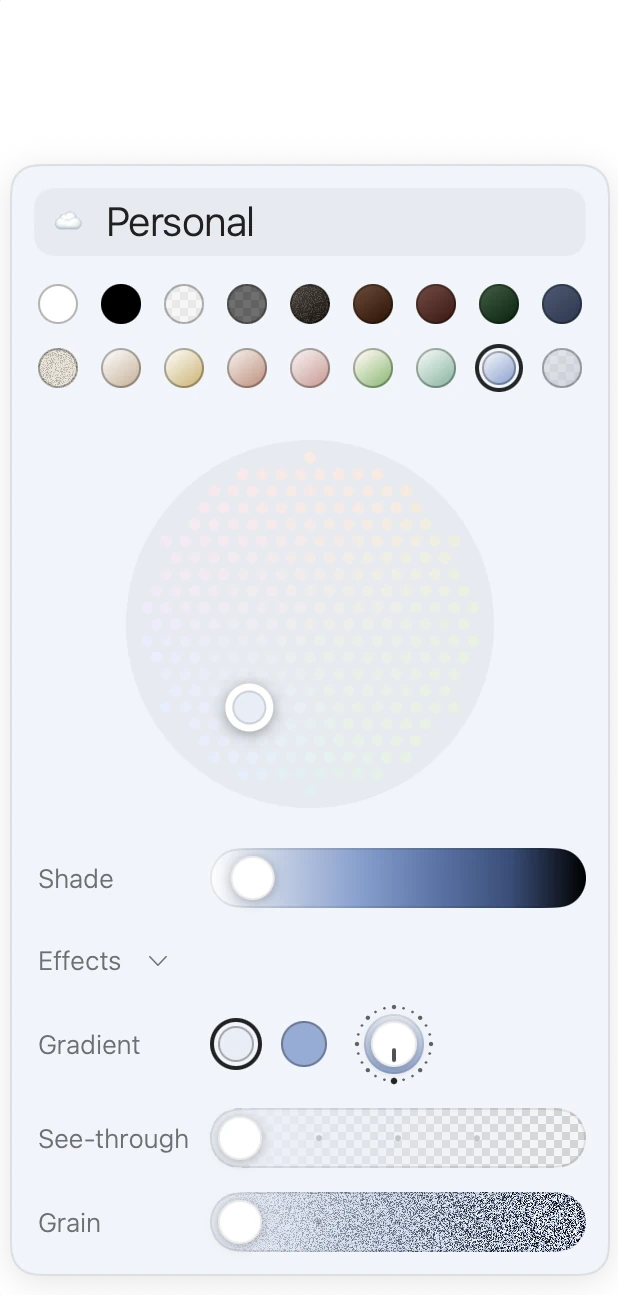
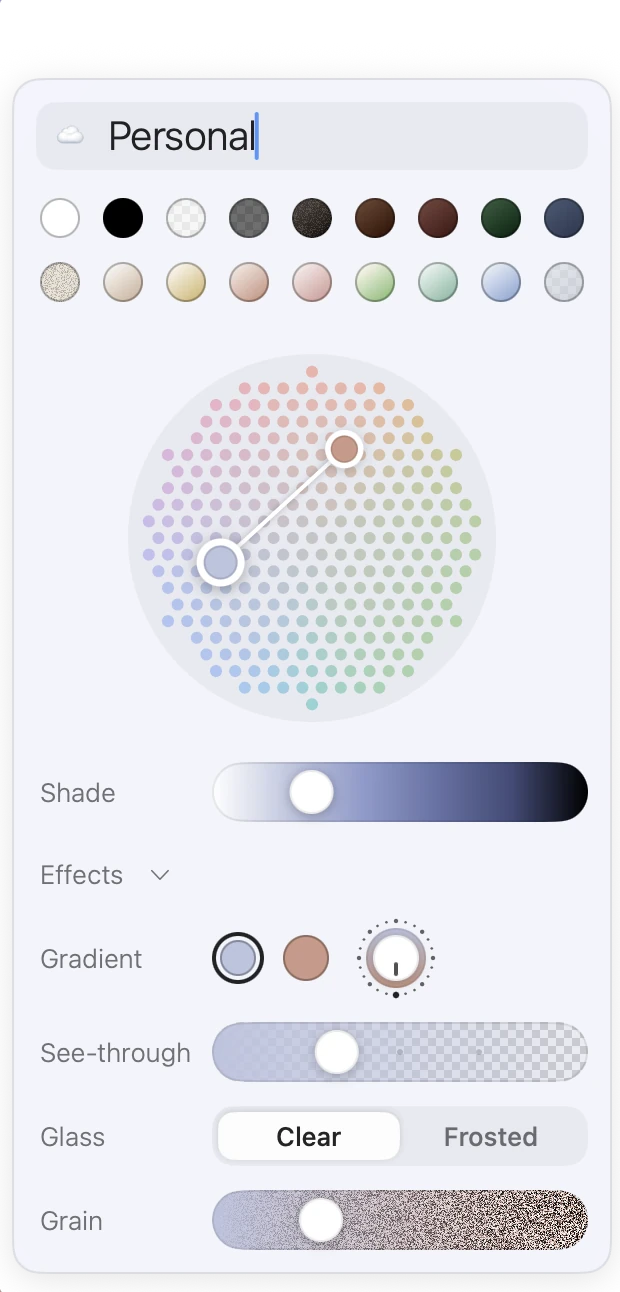
feat: the home page alternates sky, blue, white and navy bands, with a colored space editor and a cleaner peek

diff --git a/site/index.html b/site/index.html
@@ -22,7 +22,7 @@
 <meta name="twitter:image" content="https://zigzagbrowser.com/assets/og.png">
 <script type="application/ld+json">{"@context": "https://schema.org", "@type": "SoftwareApplication", "name": "Zigzag", "applicationCategory": "BrowserApplication", "operatingSystem": "macOS 15.4 or later", "description": "Zigzag is a fast, free web browser for Mac with spaces, a sidebar, split view and peek. Coming from Arc? Bring your spaces and pinned tabs over in one click.", "url": "https://zigzagbrowser.com/", "downloadUrl": "https://zigzagbrowser.com/download/", "image": "https://zigzagbrowser.com/assets/icon-512.png", "offers": {"@type": "Offer", "price": "0", "priceCurrency": "USD"}, "author": {"@type": "Person", "name": "Zigao Wang", "url": "https://zigao.wang"}, "license": "https://www.apache.org/licenses/LICENSE-2.0", "sameAs": ["https://github.com/ZigaoWang/zigzag"]}</script>
 <script type="application/ld+json">{"@context": "https://schema.org", "@type": "FAQPage", "mainEntity": [{"@type": "Question", "name": "Is Zigzag just an Arc copy?", "acceptedAnswer": {"@type": "Answer", "text": "Arc showed a lot of people that a browser could feel good, and Zigzag is openly inspired by that. But it’s built from scratch, on Safari’s engine instead of Chrome’s, with its own design, and things Arc never had: tabs that tidy themselves, built in ad blocking, and a password manager that imports from any browser. Zigzag isn’t affiliated with The Browser Company."}}, {"@type": "Question", "name": "Will Zigzag shut down like Arc?", "acceptedAnswer": {"@type": "Answer", "text": "It can’t be switched off. There’s no account, and the only server is the update feed. If it went away, Zigzag would keep working on your Mac. Security updates for the engine come straight from Apple with macOS."}}, {"@type": "Question", "name": "Do I need an account?", "acceptedAnswer": {"@type": "Answer", "text": "No. Download it and go."}}, {"@type": "Question", "name": "Is Zigzag finished?", "acceptedAnswer": {"@type": "Answer", "text": "Not yet. It’s in beta, which means it works well for everyday browsing, but some things are still being polished. Updates install automatically, so it keeps getting better on its own."}}, {"@type": "Question", "name": "Is it free?", "acceptedAnswer": {"@type": "Answer", "text": "Yes."}}, {"@type": "Question", "name": "Can I bring my stuff from Arc?", "acceptedAnswer": {"@type": "Answer", "text": "Yes, in one click: spaces, pinned tabs, Favorites, history, and passwords. Chrome, Safari, Dia, Edge, Brave, Vivaldi, Opera, Firefox, and Zen work too."}}, {"@type": "Question", "name": "Does it work with Chrome extensions?", "acceptedAnswer": {"@type": "Answer", "text": "Most popular ones, installed straight from the Chrome Web Store. Some can’t work outside Chrome, and Zigzag tells you upfront instead of breaking silently."}}, {"@type": "Question", "name": "Why Safari’s engine?", "acceptedAnswer": {"@type": "Answer", "text": "It’s fast, light on memory and battery, and Apple keeps it secure."}}, {"@type": "Question", "name": "Is my data private?", "acceptedAnswer": {"@type": "Answer", "text": "Yes. There’s no account, no analytics and no telemetry, and nothing about how you browse is sent to me. Zigzag checks zigzagbrowser.com once a day for updates, sending only its version. Passwords live in your Mac’s Keychain and sync only through your own iCloud. Everything Zigzag connects to on its own is listed in the README on GitHub."}}, {"@type": "Question", "name": "Is Zigzag open source?", "acceptedAnswer": {"@type": "Answer", "text": "Yes. The code is under the Apache License 2.0, on GitHub. Read it, build it, fork it. The Zigzag name and icon aren’t part of the license, so a fork needs its own."}}, {"@type": "Question", "name": "Which Macs does it run on?", "acceptedAnswer": {"@type": "Answer", "text": "macOS 15.4 or later."}}]}</script>
-<link rel="stylesheet" href="/assets/site.css?v=1795700000">
+<link rel="stylesheet" href="/assets/site.css?v=1795800000">
 </head>
 <body>
 <header class="hero">
@@ -40,12 +40,13 @@
       <p>There’s no account and nothing to sign up for. Download it and go.</p>
     </section>
 
-  <section class="feature">
+  <section class="feature band blue">
     <h2>Spaces, each in its own color.</h2>
     <p class="lede">One for the city, one for film, one for the studio. Swipe on the sidebar, or click a dot, to switch.</p>
     <div class="stage dusk"><video src="/assets/clips/spaces.mp4?v=1794100000" poster="/assets/clips/spaces.jpg?v=1794100000" muted loop playsinline preload="auto" aria-label="A creative in Shanghai moving between three spaces, each with its own pinned pages: Shanghai in deep blue with a night photo of the Lujiazui skyline, Film in near-black charcoal with an AvoidXray album from England and a pinned page of film photos, and Studio in deep forest green with Fonts In Use. A two-finger swipe on the sidebar and a click on the space dots switch between them."></video></div>
   </section>
 
+  <div class="band white">
   <section class="row">
     <div class="row-text"><h2>⌘T finds anything.</h2><p>Open tabs, history and sites, in one list as you type. Type a site’s name, press Tab, and you’re searching it.</p></div>
     <div class="stage comp"><img class="reveal" src="/assets/comp-command-bar.webp?v=1" srcset="/assets/comp-command-bar-1x.webp?v=1 1x, /assets/comp-command-bar.webp?v=1 2x" width="648" height="392" loading="lazy" alt="Zigzag’s command bar, searching git: the Zigzag repository, GitHub Docs and GitHub, with Search GitHub on Tab."></div>
@@ -53,13 +54,14 @@
 
   <section class="row flip">
     <div class="row-text"><h2>Make each space yours.</h2><p>A color or a gradient, a shade, how much of your desktop shows through, and a little grain. Every space can feel like its own room.</p></div>
-    <div class="stage comp dusk tall"><img class="reveal" src="/assets/comp-space-editor.webp?v=1" srcset="/assets/comp-space-editor-1x.webp?v=1 1x, /assets/comp-space-editor.webp?v=1 2x" width="309" height="648" loading="lazy" alt="Zigzag’s space editor: color swatches, a color wheel, shade, gradient, see-through and grain."></div>
+    <div class="stage comp dusk tall"><img class="reveal" src="/assets/comp-space-editor.webp?v=2" srcset="/assets/comp-space-editor-1x.webp?v=2 1x, /assets/comp-space-editor.webp?v=2 2x" width="310" height="646" loading="lazy" alt="Zigzag’s space editor: color swatches, a color wheel, shade, gradient, see-through and grain."></div>
   </section>
 
   <section class="row">
     <div class="row-text"><h2>Peek, then carry on.</h2><p>Shift-click a link to read it over the page you’re on. Close it, and you’re right where you were.</p></div>
-    <div class="stage"><img class="reveal" src="/assets/win-peek.webp?v=2" srcset="/assets/win-peek-1x.webp?v=2 1x, /assets/win-peek.webp?v=2 2x" width="1152" height="772" loading="lazy" alt="Zigzag with a Wikipedia article on typography peeked over Grilli Type’s site."></div>
+    <div class="stage"><img class="reveal" src="/assets/win-peek.webp?v=3" srcset="/assets/win-peek-1x.webp?v=3 1x, /assets/win-peek.webp?v=3 2x" width="1152" height="772" loading="lazy" alt="Zigzag with a Wikipedia article on typography peeked over Grilli Type’s site."></div>
   </section>
+  </div>
 
   <section class="feature">
     <h2>Everything else, built in.</h2>
@@ -77,7 +79,7 @@
     </div>
   </section>
 
-  <section class="feature weight">
+  <section class="feature weight band navy">
     <h2>The lightweight browser.</h2>
     <p class="lede">Zigzag uses the WebKit already in your Mac, so there’s no engine to ship with it.</p>
     <ul class="bars">

diff --git a/site/assets/site.css b/site/assets/site.css
@@ -263,3 +263,24 @@ main { max-width: 1160px; margin: 0 auto; padding: 0 24px; }
   .duo, .story { margin-bottom: 96px; gap: 40px; } 
   .stage.comp { height: 360px; padding: 32px 20px 0; }
 }
+
+/* Bands: the page alternates calm fields of color, edge to edge, so it never reads as one long white column. */
+.band { position: relative; padding: 120px 0; margin-bottom: 0; }
+.band::before { content: ""; position: absolute; inset: 0 calc(50% - 50vw); z-index: -1; }
+.band.blue::before { background: linear-gradient(#EAF2FC, #DCEAFA); }
+.band.white::before { background: #fff; }
+.band.white { padding: 140px 0 10px; }
+.band.navy::before { background: #1F2D40; }
+.band.navy { color: #F1F4F9; }
+.band.navy .lede, .band.navy .note { color: rgba(241, 244, 249, .66); }
+.band.navy .bars li { color: rgba(241, 244, 249, .7); }
+.band.navy .bars .track { background: rgba(241, 244, 249, .12); }
+.band.navy .bars .fill { background: rgba(241, 244, 249, .35); }
+.band.navy .bars .us { color: #fff; } .band.navy .bars .us .fill { background: #8EC0F5; }
+.band + section, .band + .band { margin-top: 0; }
+.band.blue + .band, .band.white + .feature { padding-top: 0; }
+.feature.band, .band .row:last-child { margin-bottom: 0; }
+.band.white + .feature { margin-top: 140px; }
+.band.navy { margin: 150px 0; }
+main { overflow-x: clip; }
+@media (max-width: 760px) { .band { padding: 72px 0; } .band.white { padding: 80px 0 1px; } .band.navy { margin: 96px 0; } .band.white + .feature { margin-top: 96px; } }

diff --git a/site/release-notes/index.html b/site/release-notes/index.html
@@ -16,7 +16,7 @@
 <meta name="twitter:image" content="https://zigzagbrowser.com/assets/og.png">
 <link rel="icon" type="image/png" href="/assets/favicon-64.png">
 <link rel="apple-touch-icon" href="/assets/icon-256.png">
-<link rel="stylesheet" href="/assets/site.css?v=1795700000">
+<link rel="stylesheet" href="/assets/site.css?v=1795800000">
 </head>
 <body>
 <header class="bar"><a class="bar-home" href="/" aria-label="Zigzag home"><img src="/assets/icon-64.png" width="28" height="28" alt=""><span class="wm" role="img" aria-label="Zigzag"></span></a><span class="bar-end"><a class="gh" href="https://github.com/ZigaoWang/zigzag" aria-label="Zigzag on GitHub" title="Zigzag on GitHub"><svg viewBox="0 0 16 16" aria-hidden="true"><path fill="currentColor" d="M8 0C3.58 0 0 3.58 0 8c0 3.54 2.29 6.53 5.47 7.59.4.07.55-.17.55-.38 0-.19-.01-.82-.01-1.49-2.01.37-2.53-.49-2.69-.94-.09-.23-.48-.94-.82-1.13-.28-.15-.68-.52-.01-.53.63-.01 1.08.58 1.23.82.72 1.21 1.87.87 2.33.66.07-.52.28-.87.51-1.07-1.78-.2-3.64-.89-3.64-3.95 0-.87.31-1.59.82-2.15-.08-.2-.36-1.02.08-2.12 0 0 .67-.21 2.2.82.64-.18 1.32-.27 2-.27.68 0 1.36.09 2 .27 1.53-1.04 2.2-.82 2.2-.82.44 1.1.16 1.92.08 2.12.51.56.82 1.27.82 2.15 0 3.07-1.87 3.75-3.65 3.95.29.25.54.73.54 1.48 0 1.07-.01 1.93-.01 2.2 0 .21.15.46.55.38A8.013 8.013 0 0016 8c0-4.42-3.58-8-8-8z"/></svg></a><a class="button small" href="/download">Download</a></span></header>

diff --git a/site/download/index.html b/site/download/index.html
@@ -16,7 +16,7 @@
 <meta name="twitter:image" content="https://zigzagbrowser.com/assets/og.png">
 <link rel="icon" type="image/png" href="/assets/favicon-64.png">
 <link rel="apple-touch-icon" href="/assets/icon-256.png">
-<link rel="stylesheet" href="/assets/site.css?v=1795700000">
+<link rel="stylesheet" href="/assets/site.css?v=1795800000">
 </head>
 <body>
 <header class="bar"><a class="bar-home" href="/" aria-label="Zigzag home"><img src="/assets/icon-64.png" width="28" height="28" alt=""><span class="wm" role="img" aria-label="Zigzag"></span></a><span class="bar-end"><a class="gh" href="https://github.com/ZigaoWang/zigzag" aria-label="Zigzag on GitHub" title="Zigzag on GitHub"><svg viewBox="0 0 16 16" aria-hidden="true"><path fill="currentColor" d="M8 0C3.58 0 0 3.58 0 8c0 3.54 2.29 6.53 5.47 7.59.4.07.55-.17.55-.38 0-.19-.01-.82-.01-1.49-2.01.37-2.53-.49-2.69-.94-.09-.23-.48-.94-.82-1.13-.28-.15-.68-.52-.01-.53.63-.01 1.08.58 1.23.82.72 1.21 1.87.87 2.33.66.07-.52.28-.87.51-1.07-1.78-.2-3.64-.89-3.64-3.95 0-.87.31-1.59.82-2.15-.08-.2-.36-1.02.08-2.12 0 0 .67-.21 2.2.82.64-.18 1.32-.27 2-.27.68 0 1.36.09 2 .27 1.53-1.04 2.2-.82 2.2-.82.44 1.1.16 1.92.08 2.12.51.56.82 1.27.82 2.15 0 3.07-1.87 3.75-3.65 3.95.29.25.54.73.54 1.48 0 1.07-.01 1.93-.01 2.2 0 .21.15.46.55.38A8.013 8.013 0 0016 8c0-4.42-3.58-8-8-8z"/></svg></a></span></header>

diff --git a/site/404.html b/site/404.html
@@ -6,7 +6,7 @@
 <title>Page not found</title>
 <meta name="robots" content="noindex">
 <link rel="icon" type="image/png" href="/assets/favicon-64.png">
-<link rel="stylesheet" href="/assets/site.css?v=1795700000">
+<link rel="stylesheet" href="/assets/site.css?v=1795800000">
 </head>
 <body>
 <header class="bar"><a class="bar-home" href="/" aria-label="Zigzag home"><img src="/assets/icon-64.png" width="28" height="28" alt=""><span class="wm" role="img" aria-label="Zigzag"></span></a><span class="bar-end"><a class="gh" href="https://github.com/ZigaoWang/zigzag" aria-label="Zigzag on GitHub" title="Zigzag on GitHub"><svg viewBox="0 0 16 16" aria-hidden="true"><path fill="currentColor" d="M8 0C3.58 0 0 3.58 0 8c0 3.54 2.29 6.53 5.47 7.59.4.07.55-.17.55-.38 0-.19-.01-.82-.01-1.49-2.01.37-2.53-.49-2.69-.94-.09-.23-.48-.94-.82-1.13-.28-.15-.68-.52-.01-.53.63-.01 1.08.58 1.23.82.72 1.21 1.87.87 2.33.66.07-.52.28-.87.51-1.07-1.78-.2-3.64-.89-3.64-3.95 0-.87.31-1.59.82-2.15-.08-.2-.36-1.02.08-2.12 0 0 .67-.21 2.2.82.64-.18 1.32-.27 2-.27.68 0 1.36.09 2 .27 1.53-1.04 2.2-.82 2.2-.82.44 1.1.16 1.92.08 2.12.51.56.82 1.27.82 2.15 0 3.07-1.87 3.75-3.65 3.95.29.25.54.73.54 1.48 0 1.07-.01 1.93-.01 2.2 0 .21.15.46.55.38A8.013 8.013 0 0016 8c0-4.42-3.58-8-8-8z"/></svg></a><a class="button small" href="/download">Download</a></span></header>

diff --git a/scripts/changelog-page.py b/scripts/changelog-page.py
@@ -64,7 +64,7 @@ page = f"""<!doctype html>
 <meta name="twitter:image" content="https://zigzagbrowser.com/assets/og.png">
 <link rel="icon" type="image/png" href="/assets/favicon-64.png">
 <link rel="apple-touch-icon" href="/assets/icon-256.png">
-<link rel="stylesheet" href="/assets/site.css?v=1795700000">
+<link rel="stylesheet" href="/assets/site.css?v=1795800000">
 </head>
 <body>
 <header class="bar"><a class="bar-home" href="/" aria-label="Zigzag home"><img src="/assets/icon-64.png" width="28" height="28" alt=""><span class="wm" role="img" aria-label="Zigzag"></span></a><span class="bar-end"><a class="gh" href="https://github.com/ZigaoWang/zigzag" aria-label="Zigzag on GitHub" title="Zigzag on GitHub"><svg viewBox="0 0 16 16" aria-hidden="true"><path fill="currentColor" d="M8 0C3.58 0 0 3.58 0 8c0 3.54 2.29 6.53 5.47 7.59.4.07.55-.17.55-.38 0-.19-.01-.82-.01-1.49-2.01.37-2.53-.49-2.69-.94-.09-.23-.48-.94-.82-1.13-.28-.15-.68-.52-.01-.53.63-.01 1.08.58 1.23.82.72 1.21 1.87.87 2.33.66.07-.52.28-.87.51-1.07-1.78-.2-3.64-.89-3.64-3.95 0-.87.31-1.59.82-2.15-.08-.2-.36-1.02.08-2.12 0 0 .67-.21 2.2.82.64-.18 1.32-.27 2-.27.68 0 1.36.09 2 .27 1.53-1.04 2.2-.82 2.2-.82.44 1.1.16 1.92.08 2.12.51.56.82 1.27.82 2.15 0 3.07-1.87 3.75-3.65 3.95.29.25.54.73.54 1.48 0 1.07-.01 1.93-.01 2.2 0 .21.15.46.55.38A8.013 8.013 0 0016 8c0-4.42-3.58-8-8-8z"/></svg></a><a class="button small" href="/download">Download</a></span></header>
